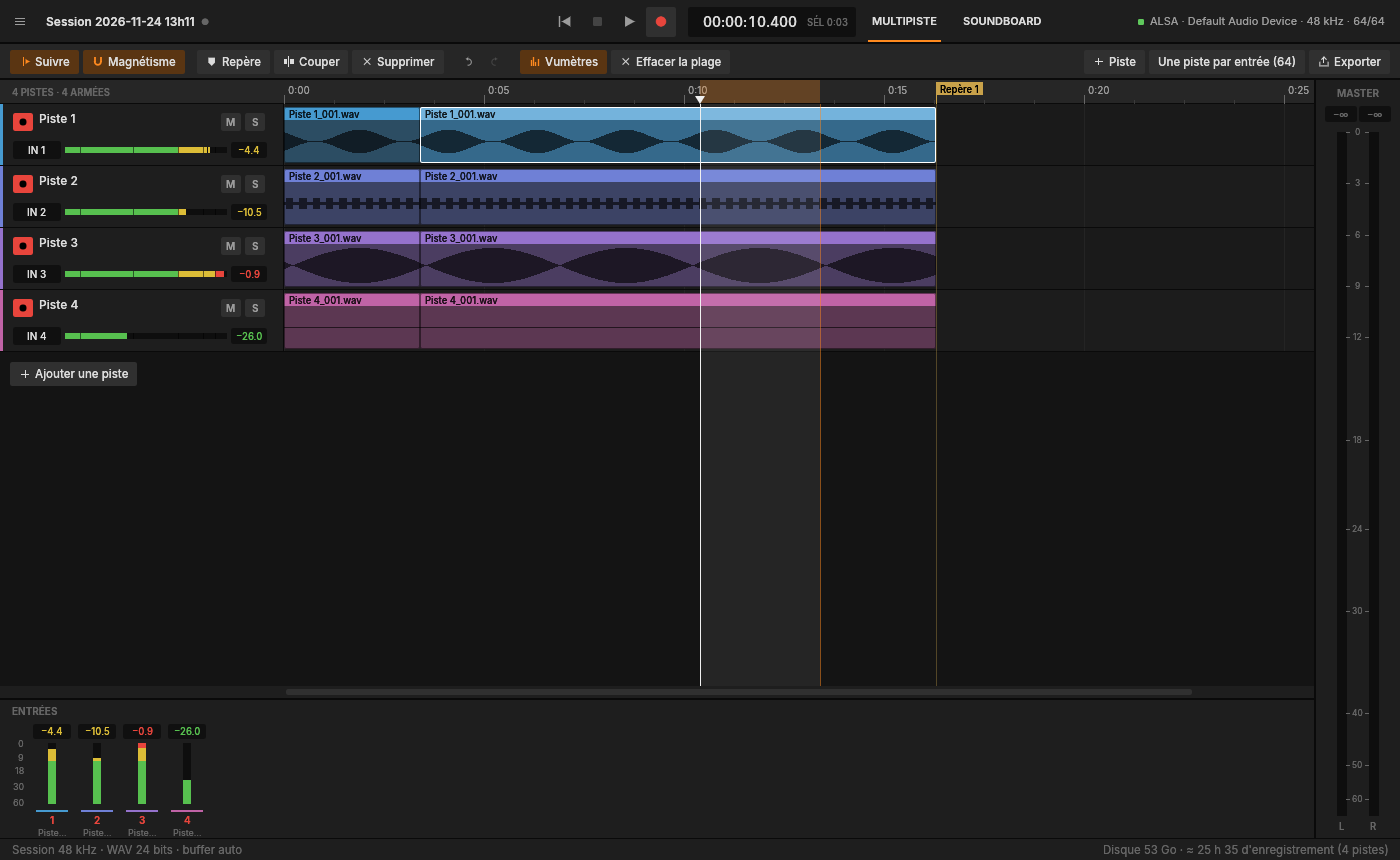
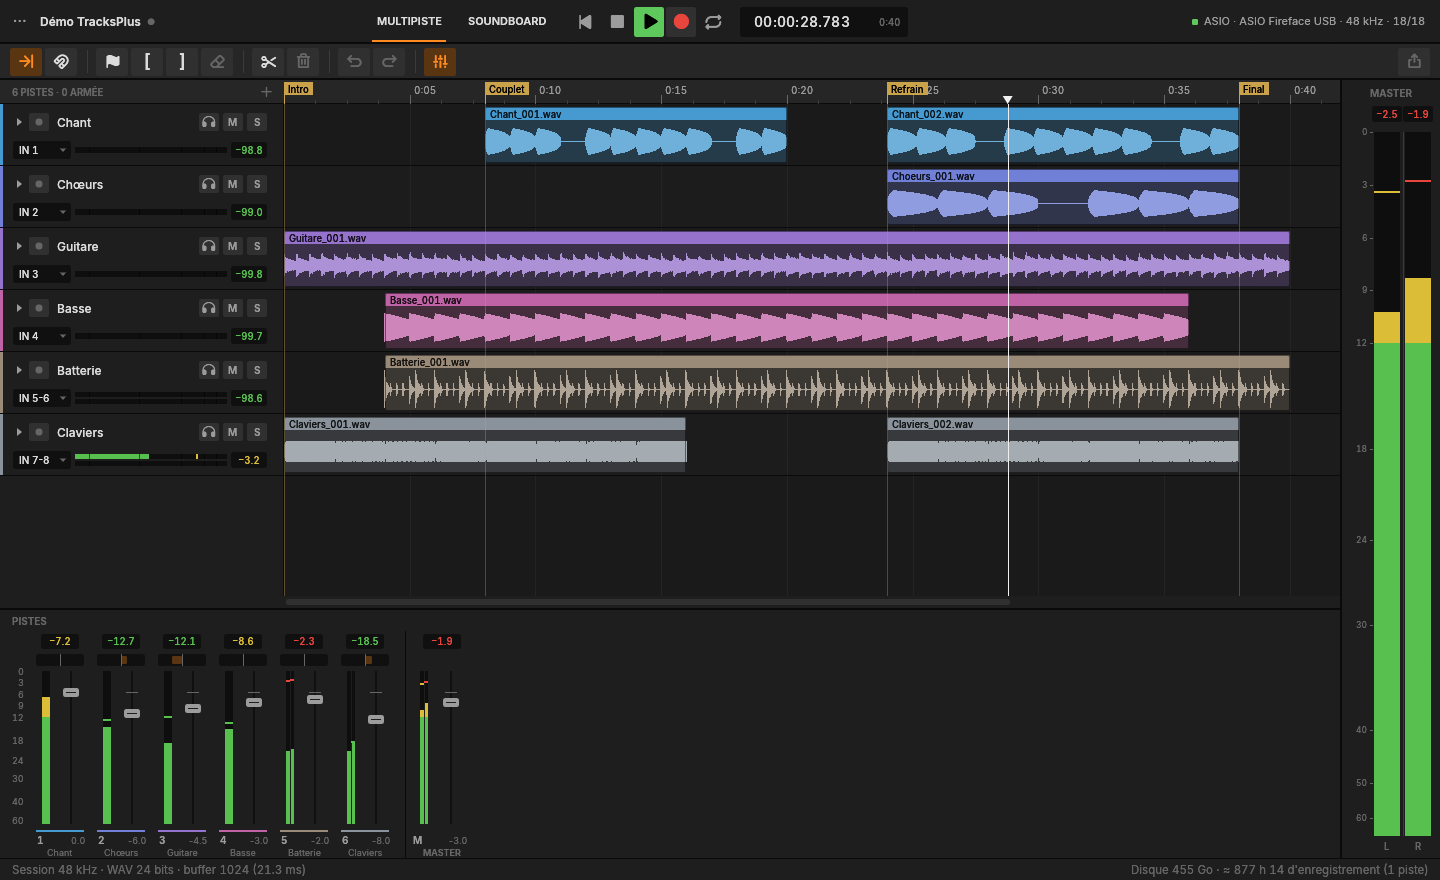
README : nouvelles captures (multipiste, mixage, soundboard, export, réglages) ; réglages : un seul bouton Actualiser, messages courts

diff --git a/src/app.rs b/src/app.rs
@@ -6180,15 +6180,10 @@ impl App {
                         if let Some(c) = pick {
                             dlg.select_card(c);
                         }
-                        // Carte branchée, Dante Virtual Soundcard passée en ASIO… après
-                        // l'ouverture des réglages. ASIO : tous les pilotes sont interrogés
-                        // (celui en service est fermé un instant).
+                        // Carte branchée, Dante Virtual Soundcard passée en ASIO, buffer changé
+                        // dans le panneau du pilote… : la carte est rouverte et la liste relue.
                         if ui.small_button("Actualiser").clicked() {
-                            if asio {
-                                dlg.probe = true;
-                            } else {
-                                dlg.refresh();
-                            }
+                            recheck = true;
                         }
                     });
                     ui.end_row();
@@ -6356,11 +6351,11 @@ impl App {
                     ui.end_row();
                     if wasapi && (fixed.is_some() || sizes.is_empty()) {
                         hints.push(
-                            "Buffer : en WASAPI, Windows le fixe lui-même. Pour une latence plus faible et réglable, passez en ASIO.",
+                            "Buffer fixé par Windows. ASIO pour le régler.",
                         );
                     } else if asio && fixed.is_some() {
                         hints.push(
-                            "Buffer : ce pilote n'accepte que la taille réglée dans son propre panneau. Changez-la là-bas, puis cliquez sur « Actualiser ».",
+                            "Buffer fixé dans le panneau du pilote, puis « Actualiser ».",
                         );
                     }
                     ui.end_row();
@@ -6418,20 +6413,25 @@ impl App {
                     ui.label(egui::RichText::new(e).font(t::medium(12.5)).color(t::REC));
                 }
                 ui.add_space((top + SETTINGS_H - 26.0 - ui.cursor().top()).max(14.0));
-                ui.horizontal(|ui| {
-                    if w::secondary_button(ui, "Actualiser").clicked() {
-                        dlg.refresh();
-                        recheck = true;
+                ui.with_layout(egui::Layout::right_to_left(egui::Align::Center), |ui| {
+                    if w::primary_button(ui, None, "Appliquer", true).clicked() {
+                        apply = true;
                     }
-                    ui.with_layout(egui::Layout::right_to_left(egui::Align::Center), |ui| {
-                        if w::primary_button(ui, None, "Appliquer", true).clicked() {
-                            apply = true;
-                        }
-                    });
                 });
             });
         if recheck {
+            // Rouvre la carte (relit buffer et fréquence du pilote), puis relit la liste ;
+            // en ASIO, tous les pilotes sont interrogés (celui en service fermé un instant).
+            let before = self.prefs.clone();
             self.reload_audio();
+            if dlg.prefs == before {
+                dlg.prefs = self.prefs.clone();
+            }
+            if dlg.prefs.host.as_deref() == Some("ASIO") {
+                dlg.probe = true;
+            } else {
+                dlg.refresh();
+            }
         }
         if std::mem::take(&mut dlg.probe) {
             self.probe_asio(&mut dlg);
@@ -6957,7 +6957,7 @@ impl App {
                             ui.add_space(6.0);
                             ui.label(
                                 egui::RichText::new(format!(
-                                    "{} / {} cochée(s)",
+                                    "{} / {}",
                                     d.tracks.len(),
                                     with_audio.len()
                                 ))

diff --git a/README.md b/README.md
@@ -15,10 +15,10 @@ Fonctionne avec Dante Virtual Soundcard (64 entrées et plus), ASIO, WASAPI et C
 - Au premier lancement, Windows SmartScreen peut afficher « Windows a protégé votre
   ordinateur » → « Informations complémentaires » → « Exécuter quand même ».
 - Quand une nouvelle version est publiée, une pastille **« Version x.y.z »** apparaît en haut
-  à droite (et un point orange sur le menu ☰). Elle affiche les nouveautés et le bouton
+  à droite (et un point orange sur le menu ···). Elle affiche les nouveautés et le bouton
   **« Installer et redémarrer »** : TracksPlus se met à jour et se relance, réglages et
   sessions conservés. Indisponible pendant une prise.
-- « Ignorer cette version » ne la propose plus. Menu ☰ → « Rechercher des mises à jour »
+- « Ignorer cette version » ne la propose plus. Menu ··· → « Rechercher des mises à jour »
   pour vérifier à la main ; la recherche au lancement est désactivable. La version portable
   ouvre la page de téléchargement.
 - Fenêtre de 940 × 600 minimum (tient dans une moitié d’écran ancrée par Windows).
@@ -47,7 +47,7 @@ ou archiver d'un bloc :
 - Chaque session a son propre soundboard. Un son ajouté à un pad est copié dans `Sons\`.
 - Carte son, sorties, contrôleur MIDI, LED, disposition du soundboard et mises à jour sont
   communs à toutes les sessions.
-- Menu ☰ : Nouvelle session…, **Ouvrir une session…** (explorateur intégré, les dossiers de
+- Menu ··· : Nouvelle session…, **Ouvrir une session…** (explorateur intégré, les dossiers de
   session y apparaissent comme des sessions), Enregistrer (Ctrl+S), Enregistrer sous… (copie
   aussi le soundboard et ses sons, sans écraser une session existante), Afficher le dossier,
   Exporter… (Ctrl+E), format d'enregistrement, **Importer un soundboard…** (reprend les pads
@@ -62,7 +62,7 @@ ou archiver d'un bloc :
 - La flèche à gauche du nom déplie la piste : type, entrée (grille, entrées déjà utilisées
   signalées), couleur. Armement, **monitoring direct** (sortie « Monitoring multipiste »),
   **M**ute / **S**olo, renommage par double-clic.
-- Enregistrement en WAV 24 bits ou 32 bits flottant (menu ☰), sauvegarde à chaque stop,
+- Enregistrement en WAV 24 bits ou 32 bits flottant (menu ···), sauvegarde à chaque stop,
   temps restant sur le disque, écoute des pistes existantes pendant la prise.
 - **Vumètres** crête IEC 60268-18 : vert / jaune (−12 dB) / rouge (−3 dB), maintien, crête max
   en dB, voyant de saturation (clic pour remettre à zéro). Un par piste, un master stéréo, et
@@ -71,6 +71,8 @@ ou archiver d'un bloc :
   master. Double-clic : 0 dB ou centre ; Maj : réglage fin. Piste mono au centre à −3 dB
   de chaque côté, comme sur une console. Les prises ne sont jamais modifiées : les faders
   règlent l'écoute et le mix exporté (les fichiers de piste exportés restent bruts).
+
+![Bandeau de mixage](docs/mixage.png)
 
 ### Pistes audio (musique, sons)
 
@@ -115,6 +117,8 @@ ou archiver d'un bloc :
   renommer, supprimer, sélectionner jusqu'au suivant. ← / → et **1 à 9** pour y sauter.
 
 ## Export
+
+![Export](docs/export.png)
 
 Chaque option a une bulle d'aide avec un exemple.
 
@@ -208,7 +212,9 @@ Chaque option a une bulle d'aide avec un exemple.
 
 ## Réglages
 
-Menu ☰ → « Réglages… », ou la pastille de la carte son en haut à droite.
+Menu ··· → « Réglages… », ou la pastille de la carte son en haut à droite.
+
+![Réglages de la carte son](docs/reglages.png)
 
 - **Carte son** : pilote (ASIO / WASAPI, CoreAudio, ALSA / JACK), entrée, fréquence, buffer,
   et les sorties, dans l'ordre **Main multipiste**, **Monitoring multipiste**, **Soundboard** :
@@ -250,7 +256,7 @@ Menu ☰ → « Réglages… », ou la pastille de la carte son en haut à droit
    Virtual Soundcard**, à la même fréquence que le réseau Dante. La DVS doit être démarrée
    en mode **ASIO** (en mode WDM, ses canaux sont dans Windows : choisissez alors le pilote
    WASAPI). Tous les pilotes ASIO installés sont listés, même quand un autre est en service ;
-   « Actualiser la liste » relit les cartes après un changement de mode de la DVS.
+   « Actualiser » relit les cartes après un changement de mode de la DVS.
 2. Multipiste : bouton **+** pour chaque entrée (mono ou stéréo), renommez, armez, ⏺.
 3. Réglages → Carte son : sortie Soundboard sur la paire Dante dédiée aux pads.
 
